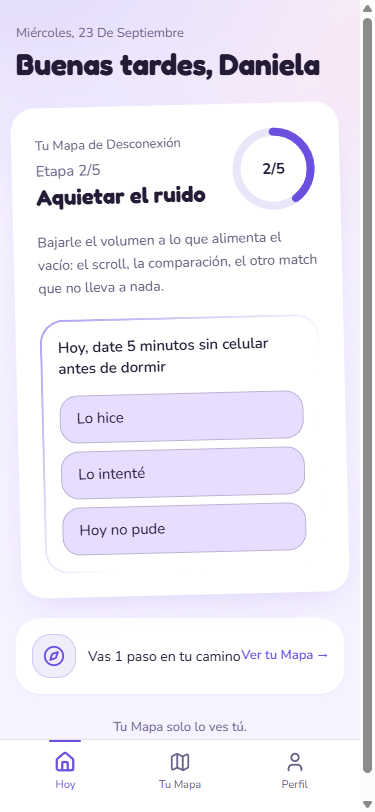
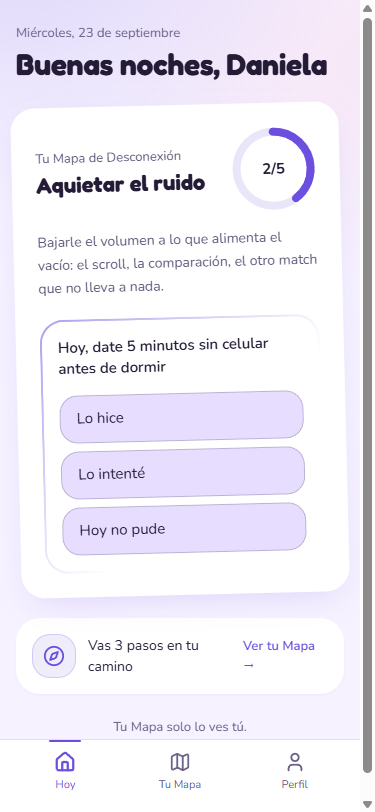
fix: app interna — fecha mal capitalizada, seed inconsistente, celebracion sin aria-live, jerarquia duplicada
Cuarta revision: la clase capitalize de Tailwind capitalizaba cada palabra
del string ya formateado por Intl ("De Septiembre" en vez de "de
septiembre") — se capitaliza solo la primera letra en JS. El dato semilla
tenia etapa 2 con 1 paso completado, pero la regla de negocio exige 3 pasos
por etapa — no cuadraba con lo que la pantalla mostraba. El banner de
celebracion no tenia aria-live. El numero de etapa se repetia en texto y en
el anillo sin sumar jerarquia — se deja solo en el anillo, y se reutiliza
CountUp (que habia quedado sin uso) en "Vas N pasos".

Changed region(s): [[0.088, 0.1539, 0.5573, 0.2771], [0.2347, 0.7697, 0.8507, 0.8313], [0.264, 0.0308, 0.88, 0.1232]]

diff --git a/app/app/page.tsx b/app/app/page.tsx
@@ -99,7 +99,8 @@ export default function AppVinculo() {
   }, []);
 
   const ahora = new Date();
-  const fecha = new Intl.DateTimeFormat('es', { weekday: 'long', day: 'numeric', month: 'long' }).format(ahora);
+  const fechaCruda = new Intl.DateTimeFormat('es', { weekday: 'long', day: 'numeric', month: 'long' }).format(ahora);
+  const fecha = fechaCruda.charAt(0).toUpperCase() + fechaCruda.slice(1);
   const etapaActual = ETAPAS.find((e) => e.numero === (registro?.etapaActual ?? 2))!;
 
   const elegirCheckin = (estado: EstadoPaso) => {
@@ -165,6 +166,8 @@ export default function AppVinculo() {
             animate={{ opacity: 1, y: 0, scale: 1 }}
             exit={{ opacity: 0, y: 12, scale: 0.97 }}
             transition={{ type: 'spring', stiffness: 300, damping: 24 }}
+            role="status"
+            aria-live="polite"
             className="fixed inset-x-4 bottom-24 z-20 mx-auto flex max-w-[420px] items-center gap-3 rounded-[var(--radius-card)] border-2 border-[var(--accent)] bg-[var(--surface)] p-4 shadow-[var(--shadow-2)]"
           >
             <span className="flex size-10 shrink-0 items-center justify-center rounded-full bg-[var(--chip-bg)]">
@@ -262,7 +265,7 @@ function PantallaHoy({
   return (
     <>
       <motion.header variants={item} className="mb-6">
-        <p className="text-[13px] font-medium capitalize text-[var(--text-tertiary)]">{fecha}</p>
+        <p className="text-[13px] font-medium text-[var(--text-tertiary)]">{fecha}</p>
         <h1 className="mt-1 text-balance text-[30px] font-bold leading-[1.1] tracking-[-0.01em] text-[var(--text-primary)] [font-family:var(--font-display)]">
           {saludo}, Daniela
         </h1>
@@ -277,7 +280,6 @@ function PantallaHoy({
           <div className="flex items-center justify-between gap-4">
             <div className="min-w-0">
               <p className="text-[13px] font-medium text-[var(--text-secondary)]">Tu Mapa de Desconexión</p>
-              <p className="mt-1 text-[15px] leading-snug text-[var(--text-tertiary)]">Etapa <CountUp value={etapaActual.numero} />/5</p>
               <h2 className="mt-1 text-[22px] font-bold leading-[1.15] text-[var(--text-primary)] [font-family:var(--font-display)]">
                 {etapaActual.nombre}
               </h2>
@@ -341,7 +343,7 @@ function PantallaHoy({
           <span className="flex items-center gap-3">
             <IconChip icon={Compass} />
             <span className="text-[14px] font-medium text-[var(--text-primary)]">
-              Vas {registro.pasosCompletados} {registro.pasosCompletados === 1 ? 'paso' : 'pasos'} en tu camino
+              Vas <CountUp value={registro.pasosCompletados} /> {registro.pasosCompletados === 1 ? 'paso' : 'pasos'} en tu camino
             </span>
           </span>
           <span className="text-[13px] font-semibold text-[var(--accent)]">Ver tu Mapa →</span>

diff --git a/components/app/storage.ts b/components/app/storage.ts
@@ -30,10 +30,12 @@ export interface RegistroApp {
 
 const KEY = 'vinculo_app_v1';
 
+// Dato semilla (32: la app nunca se enseña vacía): etapa 2 se gana con 3 pasos
+// "hechos" (PASOS_POR_ETAPA) — el seed respeta esa misma cuenta, no un número suelto.
 const INICIAL: RegistroApp = {
   etapaActual: 2,
   pasoHoyEstado: 'pendiente',
-  pasosCompletados: 1,
+  pasosCompletados: 3,
 };
 
 export function leerRegistro(): RegistroApp {

diff --git a/docs/revisiones/app-hoy-veredicto.md b/docs/revisiones/app-hoy-veredicto.md
@@ -1,14 +1,14 @@
 # VEREDICTO revisor-visual — app-hoy
 Fecha: 2026-09-23 00:00
 Screenshot: docs/revisiones/app-hoy-375.png
-Usabilidad: 27/40
-Craft: 15/20
+Usabilidad: 28/40
+Craft: 16/20
 Copy (si vende): N-A
 Fidelidad (si hubo referencia): N-A
 Veredicto: NO LISTA
 Top defectos:
-1. components/app/storage.ts registrarPasoHoy() incrementa pasosCompletados en CADA click de "Lo hice" sin verificar el estado previo (actual.pasoHoyEstado) — re-seleccionar la misma opción o alternar entre opciones y volver a "Lo hice" infla el contador y puede disparar una celebración de etapa falsa el mismo día → fix: solo sumar si actual.pasoHoyEstado !== 'hecho' antes de la llamada.
-2. app/app/page.tsx linea 321 y storage.ts: el copy "Puedes cambiarla cuando quieras" promete reversibilidad total del check-in, pero si el usuario ya subió de etapa y luego cambia su respuesta de "hecho" a otra opcion, la etapa avanzada y el conteo NO se revierten → fix: restar el paso al cambiar de "hecho" a otro estado, o ajustar el copy para aclarar que el avance de etapa ya confirmado no se deshace.
-3. app/app/page.tsx lineas 253-256: pasoTitulo solo distingue "etapa <=2" vs "resto" — las etapas 3, 4 y 5 (Escucharte a ti misma / Tu ritual semanal / Abrirte a los demas) muestran el mismo texto de tarea ("date 5 minutos sin celular antes de dormir"), que no corresponde al tema de las etapas 4 y 5 → fix: un texto de tarea por etapa, no un binario.
-4. app/app/page.tsx linea 446-461 (Perfil, switch de notificaciones): el boton role="switch" no tiene aria-label ni aria-labelledby apuntando al texto "Notificaciones" — un lector de pantalla anuncia "switch, no activado" sin nombre → fix: aria-label="Notificaciones" o aria-labelledby con el id del texto adyacente.
-5. Heuristica 7 (flexibilidad/atajos) — reconocida por el equipo como deuda de bajo impacto sin resolver; sigue bajando el puntaje aunque la decision de no autofocus sea razonable.
+1. [Header, fecha] "Miércoles, 23 De Septiembre" — la clase `capitalize` en page.tsx (línea ~265) se aplica sobre el string ya formateado por Intl.DateTimeFormat y capitaliza CADA palabra, incluida la preposición "de" → quitar `capitalize` y capitalizar solo la primera letra en JS.
+2. [Card héroe vs bloque "Vas X pasos"] Datos semilla inconsistentes: INICIAL en storage.ts fija etapaActual:2 con pasosCompletados:1, pero la regla de negocio exige 3 pasos completados por etapa (PASOS_POR_ETAPA=3) — la pantalla muestra "Etapa 2/5" y "Vas 1 paso en tu camino" a la vez, números que no cuadran entre sí → fijar el seed a pasosCompletados:3 (o el valor real que corresponde a etapa 2).
+3. [Modal de celebración de etapa] El contenedor de "Nueva etapa: …" no tiene `role="status"`/`aria-live` → un usuario de lector de pantalla no se entera del hito logrado (verificado en código, app/app/page.tsx ~línea 163) → agregar `role="status" aria-live="polite"`.
+4. [Heurística 7 — flexibilidad] Pantalla más visitada de la app (ritual diario M0) sin ningún atajo o ahorro de fricción para el uso repetido (no recuerda ni sugiere la opción típica del usuario) → considerar preseleccionar o resaltar sutilmente la opción más usada históricamente.
+5. [Card héroe] El número de etapa se repite dos veces en el mismo bloque visual (texto "Etapa 2/5" + anillo "2/5") sin aportar jerarquía nueva, ocupando espacio sin sumar valor → fusionar en una sola fuente de verdad visual (dejar el anillo o el texto, no ambos).
